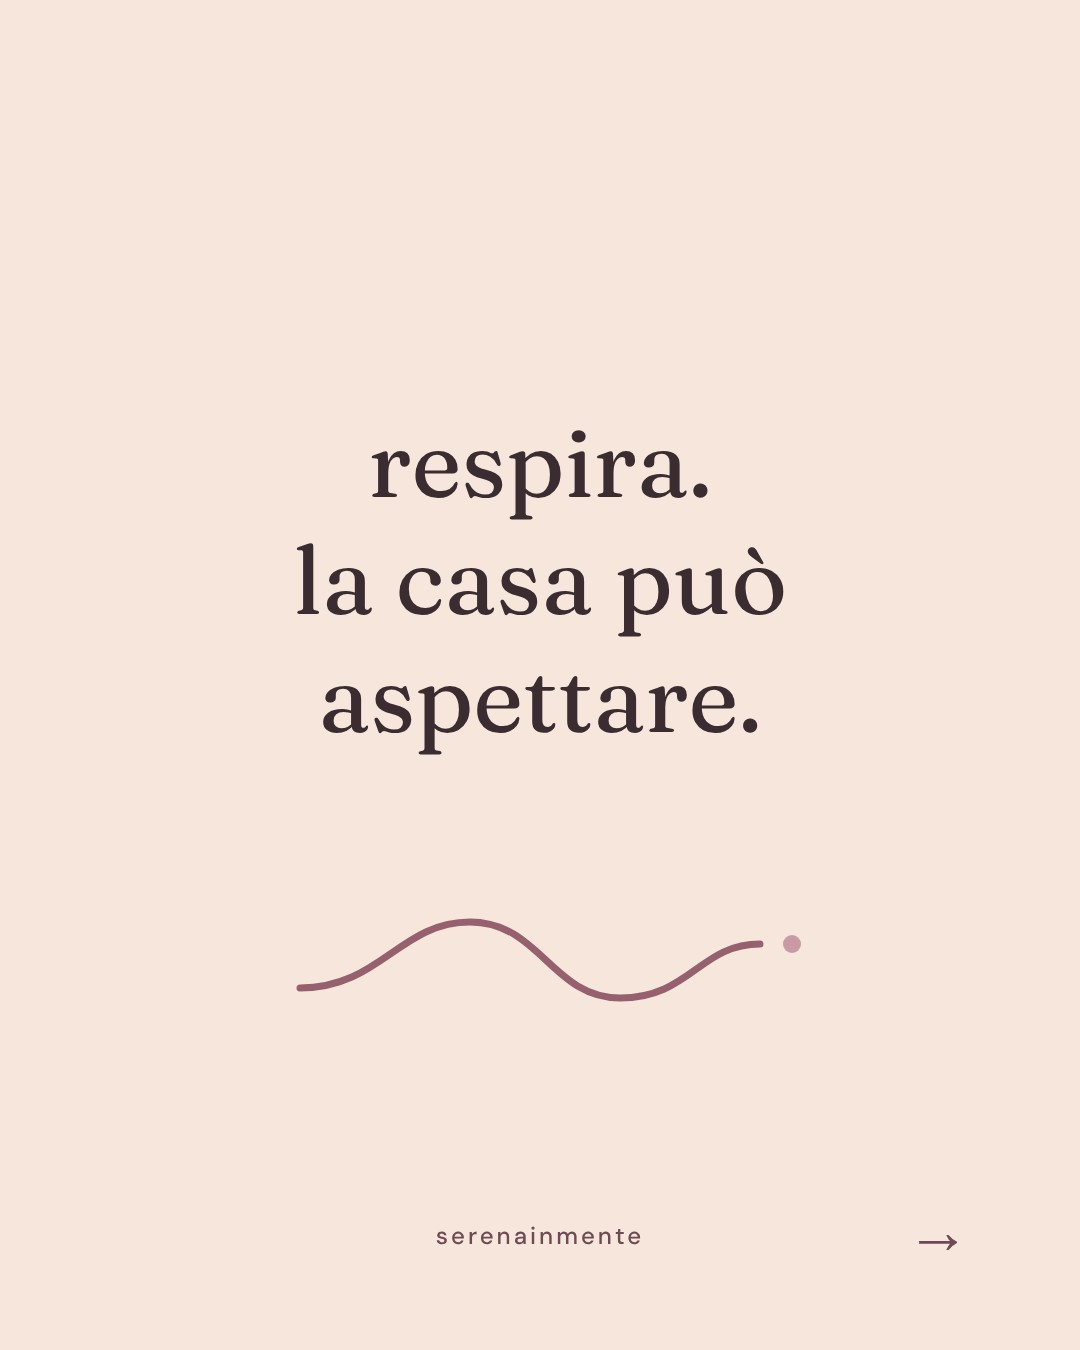
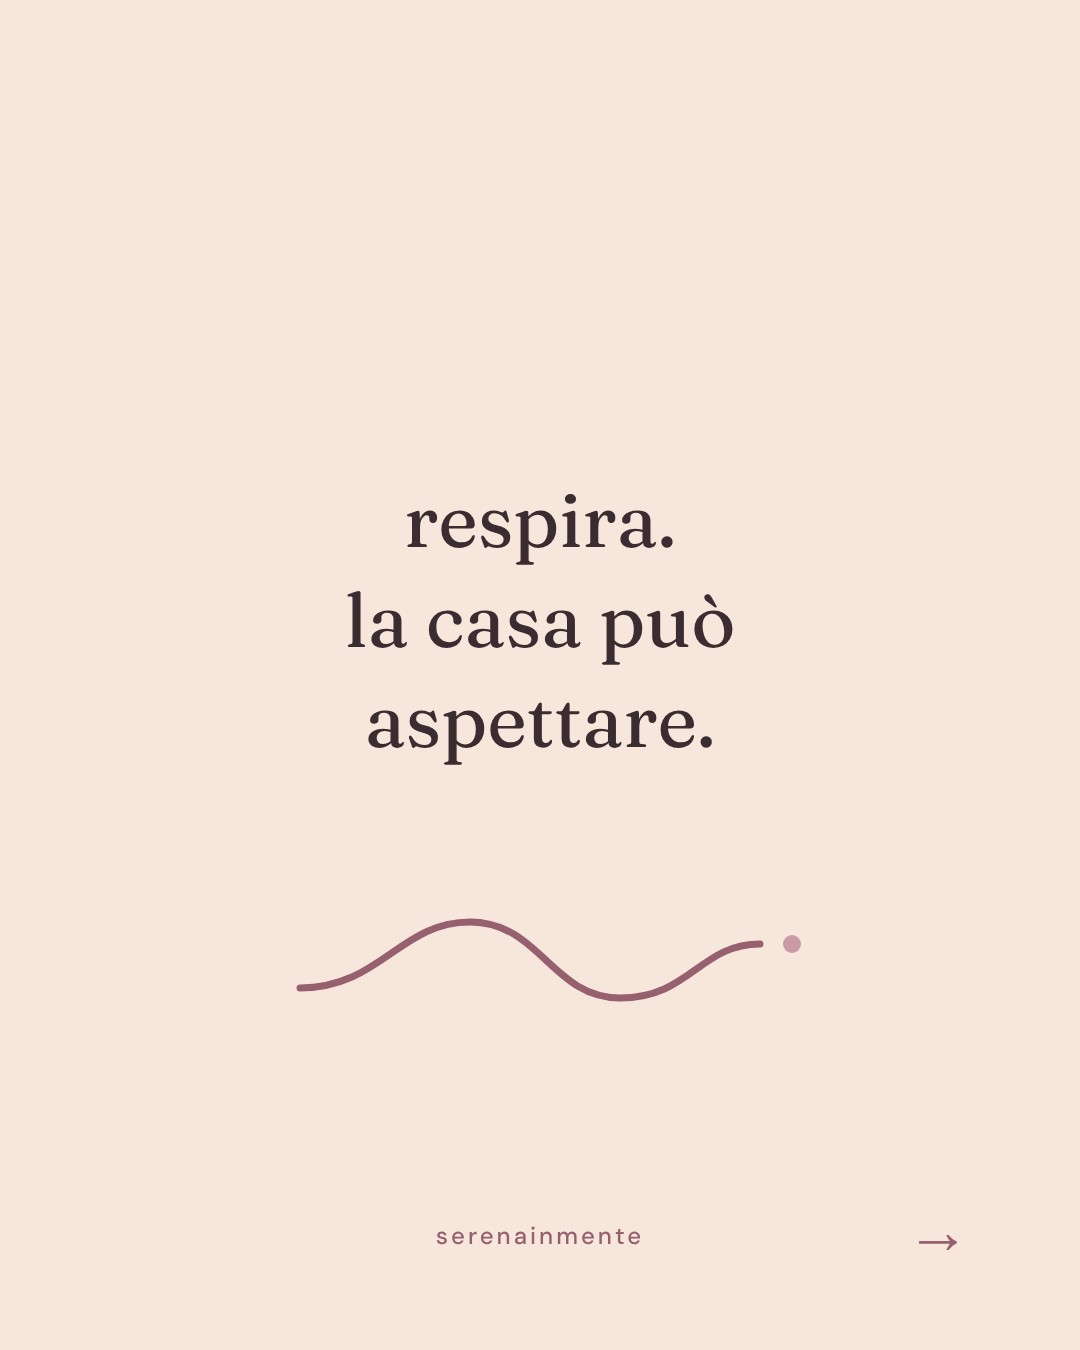
Post 19/11 delle 10:30: frase in copertina un po' più grande (opzione dim di render.js)
Claude-Session: https://claude.ai/code/session_01PexKGrEoahLuMFXSH7a2SF

Changed region(s): [[0.275, 0.3111, 0.7333, 0.56], [0.5194, 0.9022, 0.55, 0.9333]]

diff --git a/gen/grafiche/render.js b/gen/grafiche/render.js
@@ -88,7 +88,7 @@ function corpo(it) {
   const tipo = it.tipo || 'frase';
   if (tipo === 'frase') {
     const lab = it.parola ? `<div class="lab">${esc(it.parola)}<small>il vocabolario di Serena · n. ${esc(it.numero)}</small></div>` : '';
-    return `${it.conta ? `<div class="cnt">${esc(it.conta)}</div>` : ''}${lab}<div class="f">${esc(it.frase)}</div>${filo}${it.rubricaSotto ? `<div class="rsotto">${esc(it.rubricaSotto)}</div>` : ''}<div class="s">serenainmente</div>${it.freccia ? '<div class="arrow">→</div>' : ''}`;
+    return `${it.conta ? `<div class="cnt">${esc(it.conta)}</div>` : ''}${lab}<div class="f"${it.dim ? ` style="font-size:${it.dim}px"` : ''}>${esc(it.frase)}</div>${filo}${it.rubricaSotto ? `<div class="rsotto">${esc(it.rubricaSotto)}</div>` : ''}<div class="s">serenainmente</div>${it.freccia ? '<div class="arrow">→</div>' : ''}`;
   }
   const piede = `${filoMini}<div class="firma">serenainmente</div>`;
   if (tipo === 'copertina')
